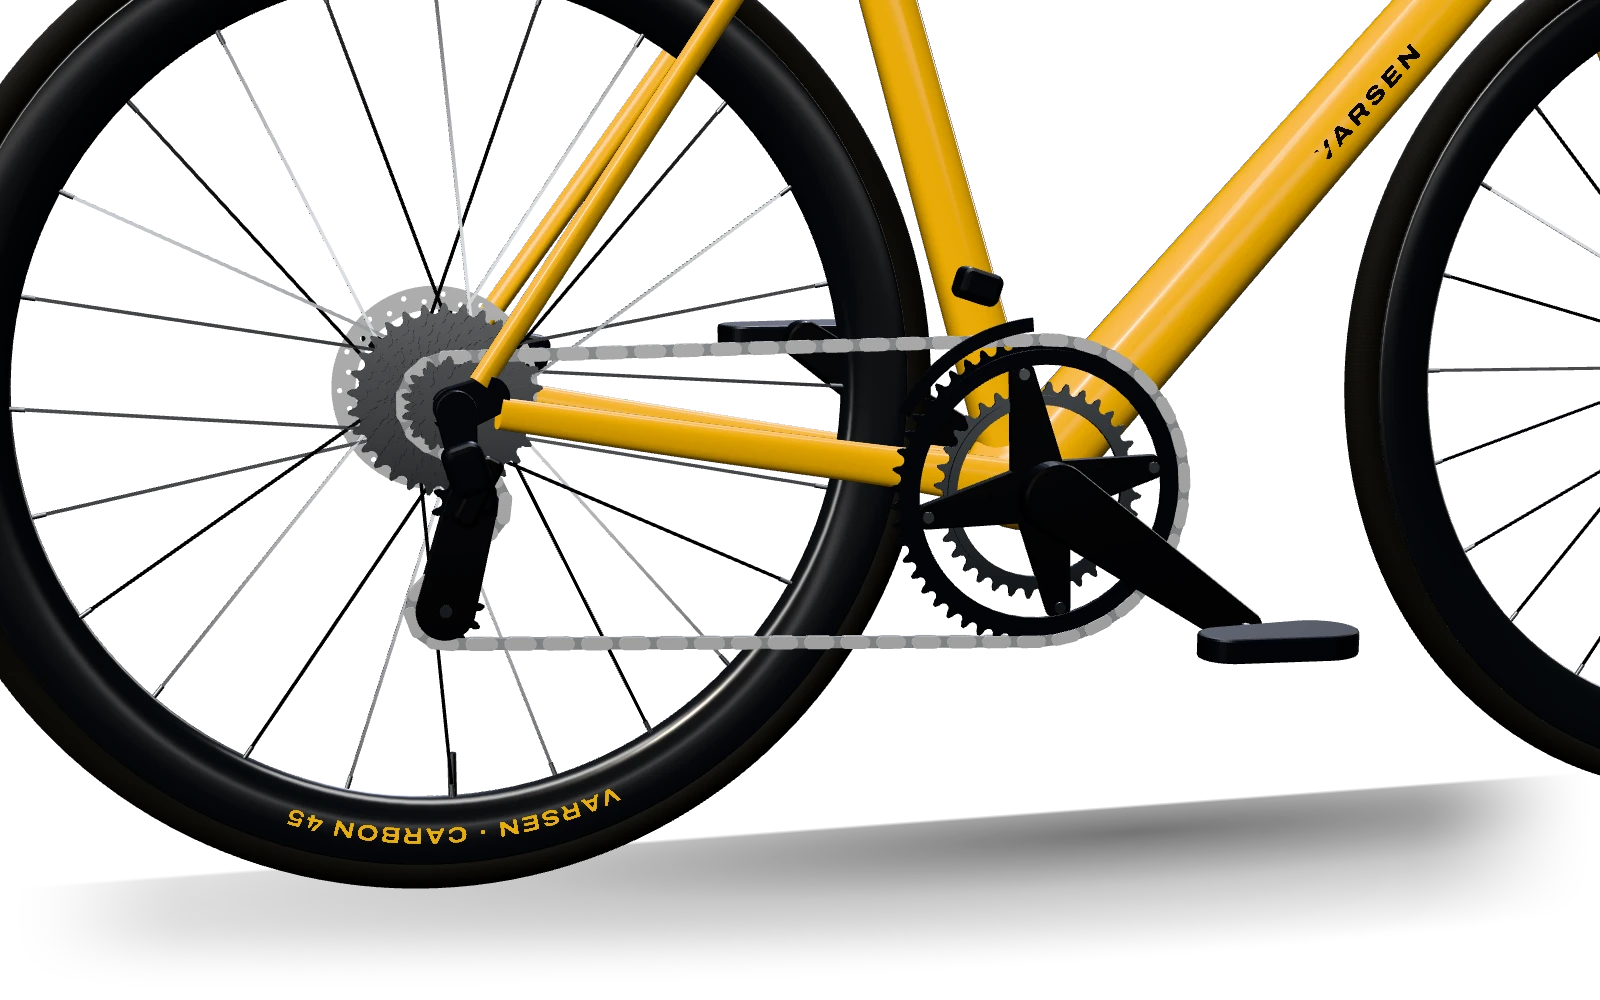
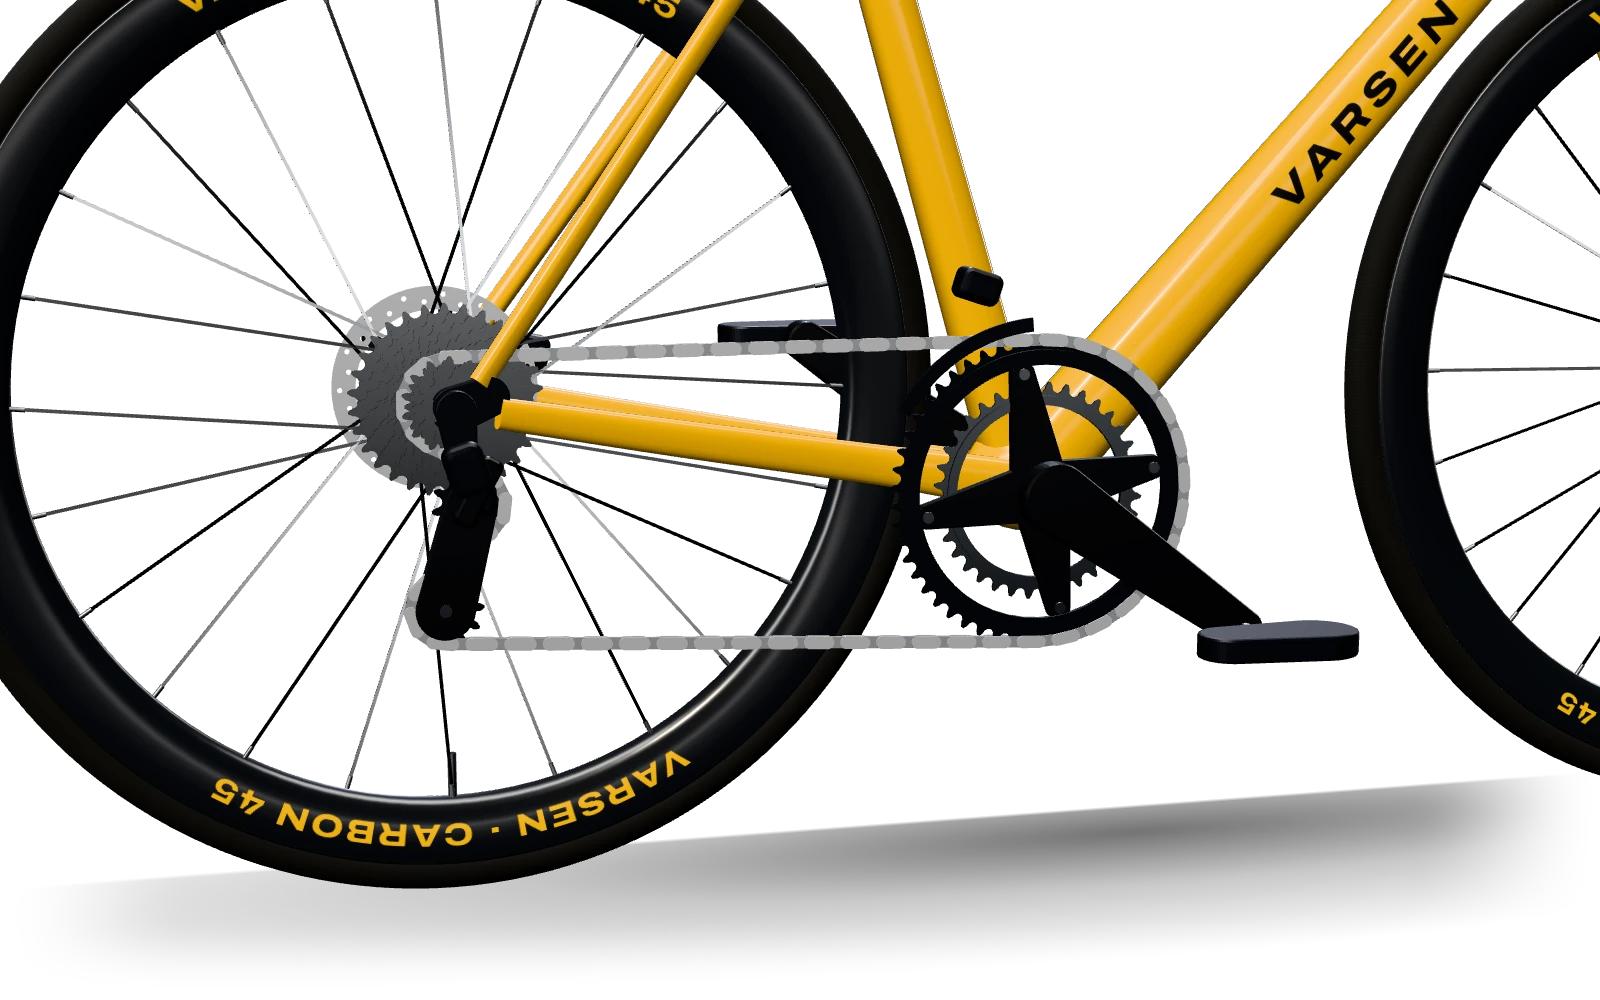
Varsen: bigger, sharper decals that sit on the tube and the rim wall
Why: the owner found the text on the bike hard to read ("upscale the resolution of the text on the bike itself so
it'd be more readable"). The rim line was about 15 mm tall (about 7 px on screen in the side views), the down-tube
wordmark 17 mm; both were alpha-tested, so their edges stair-stepped and thin strokes broke up when minified; and the
flat wordmark card sank into the down tube where it widens towards the BB, which hid most of the V.
What: wordmark 300 x 34 mm (was 200 x 25), rim strip arc +-0.62 rad (was +-0.42) with the line filling 60% of its
height; 2048 px textures in each strip's own aspect, font size from the measured cap height, anisotropy 8; blended
alpha instead of a 0.5 alpha test; every wordmark vertex set onto the tube's own superellipse section (0.7 mm proud)
and the rim strip laid on the rim's sidewall profile (0.2 mm proud). One DECAL constant feeds textures and geometry.
Posters re-rendered.
Proved: chart plate at 1440x900 reads "VARSEN" whole and the rim line end to end (before/after crops); every size
passes validateGeometry; overlap scan 0 pairs over 5699 assembly samples and all seven sizes (lab-overlaps.json,
tools/check-overlaps.mjs); scroll-craft harness desktop and 390x844: no dead scroll, contrast >= 4.5:1, no errors.

diff --git a/scrollcraft/builds/varsen/js/bike.js b/scrollcraft/builds/varsen/js/bike.js
@@ -85,21 +85,42 @@ async function makeTextures() {                   // one texture per slice: canv
     x.strokeStyle = '#3c3c3c'; x.lineWidth = 6;
     for (let i = -w; i < 2 * w; i += 16) { x.beginPath(); x.moveTo(i, 0); x.lineTo(i + w, w); x.stroke(); }
   }, { repeat: [0.5, 0.5] });
-  const word = (text, font, size, w, h, track, fill) => canvasTexture(w, h, (x) => {
-    x.clearRect(0, 0, w, h); x.fillStyle = fill; x.font = `${font.replace('SIZE', size)}`; x.textBaseline = 'middle'; x.textAlign = 'center';
-    x.letterSpacing = `${Math.round(size * track)}px`; x.fillText(text, w / 2, h / 2 + size * 0.04);
-  }, { color: true });
+  // A line of text that fills its strip: the measured cap height is `cap` of the texture's height, the line is
+  // centred on it, and it is narrowed only if it would overrun 94% of the width. The texture has the strip's own
+  // aspect, so the letters are not stretched when it is mapped on.
+  const word = (text, aspect, cap, track, fill) => {
+    const w = 2048, h = Math.round(w / aspect);
+    const t = canvasTexture(w, h, (x) => {
+      x.clearRect(0, 0, w, h); x.fillStyle = fill; x.textAlign = 'center'; x.textBaseline = 'alphabetic';
+      const set = size => { x.font = `800 ${size}px "Archivo Expanded", sans-serif`; x.letterSpacing = `${(size * track).toFixed(1)}px`; };
+      set(100); let size = 100 * h * cap / x.measureText('H').actualBoundingBoxAscent;
+      set(size); const wide = x.measureText(text).width; if (wide > w * 0.94) set(size *= w * 0.94 / wide);
+      x.fillText(text, w / 2, h / 2 + x.measureText('H').actualBoundingBoxAscent / 2);
+    }, { color: true });
+    t.anisotropy = 8;                               // the rims are often seen at a slant
+    return t;
+  };
   // decals in the page's own face (Archivo, expanded): black on the yellow frame, yellow on the black rims
-  await slice(); const decal = word('VARSEN', '800 SIZEpx "Archivo Expanded", sans-serif', 88, 1024, 128, 0.16, LOOK.decalInk);
-  await slice(); const rimDecal = word('VARSEN · CARBON 45', '700 SIZEpx "Archivo Expanded", sans-serif', 60, 1024, 96, 0.1, LOOK.rimInk);
+  const [r0, r1] = rimStrip(), rimAspect = ((r0 + r1) / 2 * 2 * DECAL.rimArc) / (r1 - r0);
+  await slice(); const decal = word('VARSEN', DECAL.tube[0] / DECAL.tube[1], 0.62, 0.16, LOOK.decalInk);
+  await slice(); const rimDecal = word('VARSEN · CARBON 45', rimAspect, 0.6, 0.08, LOOK.rimInk);
   await slice();
   return { tread, tape, decal, rimDecal };
+}
+/** Decal sizes, shared by the textures and the geometry: the down-tube wordmark (length, height in metres), the rim
+    strip's half-arc (radians) and its inset from the spoke bed and the hook (metres). */
+const DECAL = { tube: [0.3, 0.034], rimArc: 0.62, rimInset: [0.012, 0.008] };
+function rimStrip() {
+  const flange = CHART.bsd / 2 * MM + BUILD.rimFlange * MM, bed = flange - BUILD.rimDepth * MM;
+  return [bed + DECAL.rimInset[0], flange - DECAL.rimInset[1]];
 }
 /** The model's finish. Gloss yellow paint over black carbon; decals black on paint, yellow on the rims. */
 export const LOOK = { paint: 0xffbe00, decalInk: '#121212', rimInk: '#ffc21a' };
 export async function makeMaterials() {
   const T = await makeTextures();
-  const decal = map => new THREE.MeshStandardMaterial({ map, alphaTest: 0.5, roughness: 0.45, metalness: 0, polygonOffset: true, polygonOffsetFactor: -2, polygonOffsetUnits: -2 });
+  // blended, not alpha-tested: a hard 0.5 cut gave stair-stepped letters and broke thin strokes once the texture
+  // was minified; blending keeps the mip-filtered edge. Drawn after the paint, so they never write depth.
+  const decal = map => new THREE.MeshStandardMaterial({ map, transparent: true, alphaTest: 0.02, depthWrite: false, roughness: 0.45, metalness: 0, polygonOffset: true, polygonOffsetFactor: -2, polygonOffsetUnits: -2 });
   const M = {
     paint: new THREE.MeshPhysicalMaterial({ color: LOOK.paint, roughness: 0.26, metalness: 0.05, clearcoat: 1, clearcoatRoughness: 0.06 }),
     carbon: new THREE.MeshStandardMaterial({ color: 0x17181a, roughness: 0.34, metalness: 0.15 }),
@@ -273,15 +294,20 @@ function roundedShape(poly, r) {
   });
   return s;
 }
-/** Flat arc strip (rim decals): u runs along the arc, v from inner to outer radius. */
-function arcStripGeometry(r0, r1, a0, a1, segs, z, mirror) {
-  const pos = [], uv = [], nor = [], idx = [];
+/** Arc strip (rim decals): u runs along the arc, v from inner to outer radius; zAt(r) lays it on the rim's sidewall
+    (its sign is the side), so the strip follows the wall instead of standing in front of its inner slope. */
+function arcStripGeometry(r0, r1, a0, a1, segs, zAt, mirror, rings = 6) {
+  const pos = [], uv = [], idx = [], R1 = rings + 1, front = zAt((r0 + r1) / 2) > 0;
   for (let i = 0; i <= segs; i++) {
     const t = i / segs, a = lerp(a1, a0, t);
-    for (const [r, v] of [[r0, 0], [r1, 1]]) { pos.push(r * Math.cos(a), r * Math.sin(a), z); uv.push(mirror ? 1 - t : t, v); nor.push(0, 0, Math.sign(z)); }
+    for (let j = 0; j <= rings; j++) { const v = j / rings, r = lerp(r0, r1, v); pos.push(r * Math.cos(a), r * Math.sin(a), zAt(r)); uv.push(mirror ? 1 - t : t, v); }
   }
-  for (let i = 0; i < segs; i++) { const a = 2 * i; z > 0 ? idx.push(a, a + 2, a + 1, a + 1, a + 2, a + 3) : idx.push(a, a + 1, a + 2, a + 1, a + 3, a + 2); }
-  const g = new THREE.BufferGeometry(); g.setAttribute('position', new THREE.Float32BufferAttribute(pos, 3)); g.setAttribute('normal', new THREE.Float32BufferAttribute(nor, 3)); g.setAttribute('uv', new THREE.Float32BufferAttribute(uv, 2)); g.setIndex(idx);
+  for (let i = 0; i < segs; i++) for (let j = 0; j < rings; j++) {
+    const v00 = i * R1 + j, v01 = v00 + 1, v10 = v00 + R1, v11 = v10 + 1;
+    front ? idx.push(v00, v10, v01, v01, v10, v11) : idx.push(v00, v01, v10, v01, v11, v10);
+  }
+  const g = new THREE.BufferGeometry(); g.setAttribute('position', new THREE.Float32BufferAttribute(pos, 3)); g.setAttribute('uv', new THREE.Float32BufferAttribute(uv, 2)); g.setIndex(idx);
+  g.computeVertexNormals();
   return g;
 }
 
@@ -323,12 +349,24 @@ async function buildFrame(J, M) {                 // origin = BB
   }
   // rear flat-mount caliper on the non-drive chainstay, outboard of the rotor
   const cal = rbox(0.056, 0.024, 0.022, 0.008, M.dark, 'rearCaliper'); cal.position.copy(V(J.RA[0] + 52, J.RA[1] + 26, -67.5)); cal.rotation.z = rad(-12); g.add(cal);
-  // wordmark on both sides of the down tube, where its section is flattest
-  const tMid = 0.42, hMid = lerp(0.0195, 0.03, sm(tMid)) + 0.0007, mid = dtA.clone().lerp(dtB, tMid), ang = Math.atan2(dtB.y - dtA.y, dtB.x - dtA.x) + Math.PI;
+  // wordmark on both sides of the down tube, where its section is flattest. The tube widens towards the BB, so a flat
+  // card would sink into it at that end (it took the V): every vertex is set onto the tube's own superellipse section
+  // (the same profile as the tube above: half-depth w, half-width h, exponent 2.8), 0.7 mm proud of it.
+  const [DW, DH] = DECAL.tube, dtLen = dtA.distanceTo(dtB), dtU = dtB.clone().sub(dtA).normalize(), dtS = new THREE.Vector3(-dtU.y, dtU.x, 0);
+  const tubeZ = (t, s) => { const w = lerp(0.0245, 0.031, t), h = lerp(0.0195, 0.03, sm(t)); return h * Math.max(0, 1 - Math.abs(s / w) ** 2.8) ** (1 / 2.8); };
+  const tMid = 0.42, mid = dtA.clone().lerp(dtB, tMid), ang = Math.atan2(dtB.y - dtA.y, dtB.x - dtA.x) + Math.PI;
   for (const side of [1, -1]) {
-    const d = mesh(new THREE.PlaneGeometry(0.2, 0.025), M.decal, 'decal');
-    d.position.copy(mid).add(new THREE.Vector3(0, 0, hMid * side));
+    const d = mesh(new THREE.PlaneGeometry(DW, DH, 48, 6), M.decal, 'decal');
+    d.position.copy(mid);
     d.rotation.set(0, side > 0 ? 0 : Math.PI, side > 0 ? ang : -ang);
+    d.updateMatrix();
+    const inv = d.matrix.clone().invert(), pos = d.geometry.attributes.position, p = new THREE.Vector3(), rel = new THREE.Vector3();
+    for (let i = 0; i < pos.count; i++) {           // the card stays parallel to the frame plane, so only z changes
+      p.fromBufferAttribute(pos, i).applyMatrix4(d.matrix); rel.subVectors(p, dtA).setZ(0);
+      p.z = side * (tubeZ(Math.min(1, Math.max(0, rel.dot(dtU) / dtLen)), rel.dot(dtS)) + 0.0007);
+      p.applyMatrix4(inv); pos.setXYZ(i, p.x, p.y, p.z);
+    }
+    d.geometry.computeVertexNormals();
     g.add(d);
   }
   return g;
@@ -373,8 +411,14 @@ async function buildWheel(rear, M, shared, CH) {  // origin = axle; wheel plane 
     .map(([r, z]) => new THREE.Vector2(r, z));
   const rim = new THREE.LatheGeometry(prof, 120); rim.rotateX(Math.PI / 2); spin.add(mesh(rim, M.rim, 'rim'));
   await slice();
+  // the outer sidewall, spoke bed to hook (prof[18] down to prof[14], the +z side): the decal strip lies on it, 0.2 mm proud
+  const wall = prof.slice(14, 19).reverse(), wallZ = r => {
+    for (let k = 1; k < wall.length; k++) if (r <= wall[k].x) return lerp(wall[k - 1].y, wall[k].y, (r - wall[k - 1].x) / (wall[k].x - wall[k - 1].x));
+    return wall[wall.length - 1].y;
+  };
+  const [s0, s1] = rimStrip();
   for (const side of [1, -1]) for (const a of [Math.PI / 2, -Math.PI / 2])
-    spin.add(mesh(arcStripGeometry(bed + 0.012, flange - 0.008, a - 0.42, a + 0.42, 48, 0.0143 * side, side < 0), M.rimDecal, 'rimDecal'));
+    spin.add(mesh(arcStripGeometry(s0, s1, a - DECAL.rimArc, a + DECAL.rimArc, 72, r => side * (wallZ(r) + 0.0002), side < 0), M.rimDecal, 'rimDecal'));
   const valve = axleCyl(0.003, 0.034, M.steel, 'valve'); valve.rotation.set(0, 0, 0); valve.geometry.rotateX(-Math.PI / 2); valve.position.set(0, -(bed - 0.012), 0); spin.add(valve);
   // hub: shell with flanges (lathe), end caps
   const old = (rear ? BUILD.rearOLD : BUILD.frontOLD) * MM, fl = rear ? [[0.020, 0.024], [-0.030, 0.024]] : [[0.032, 0.022], [-0.032, 0.022]];
